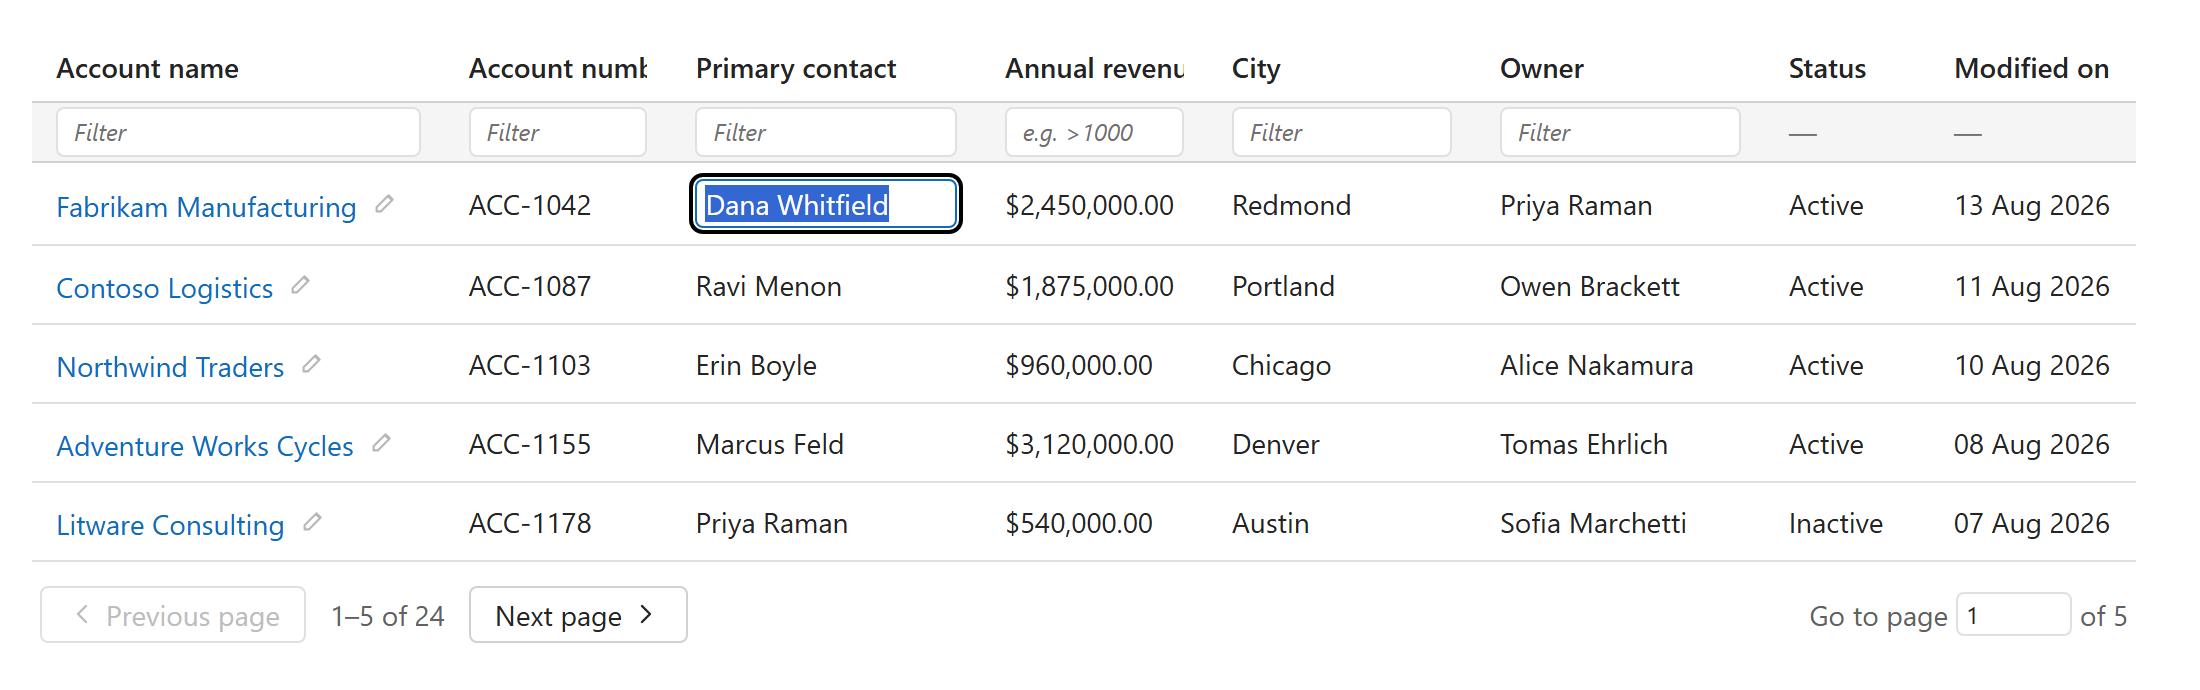
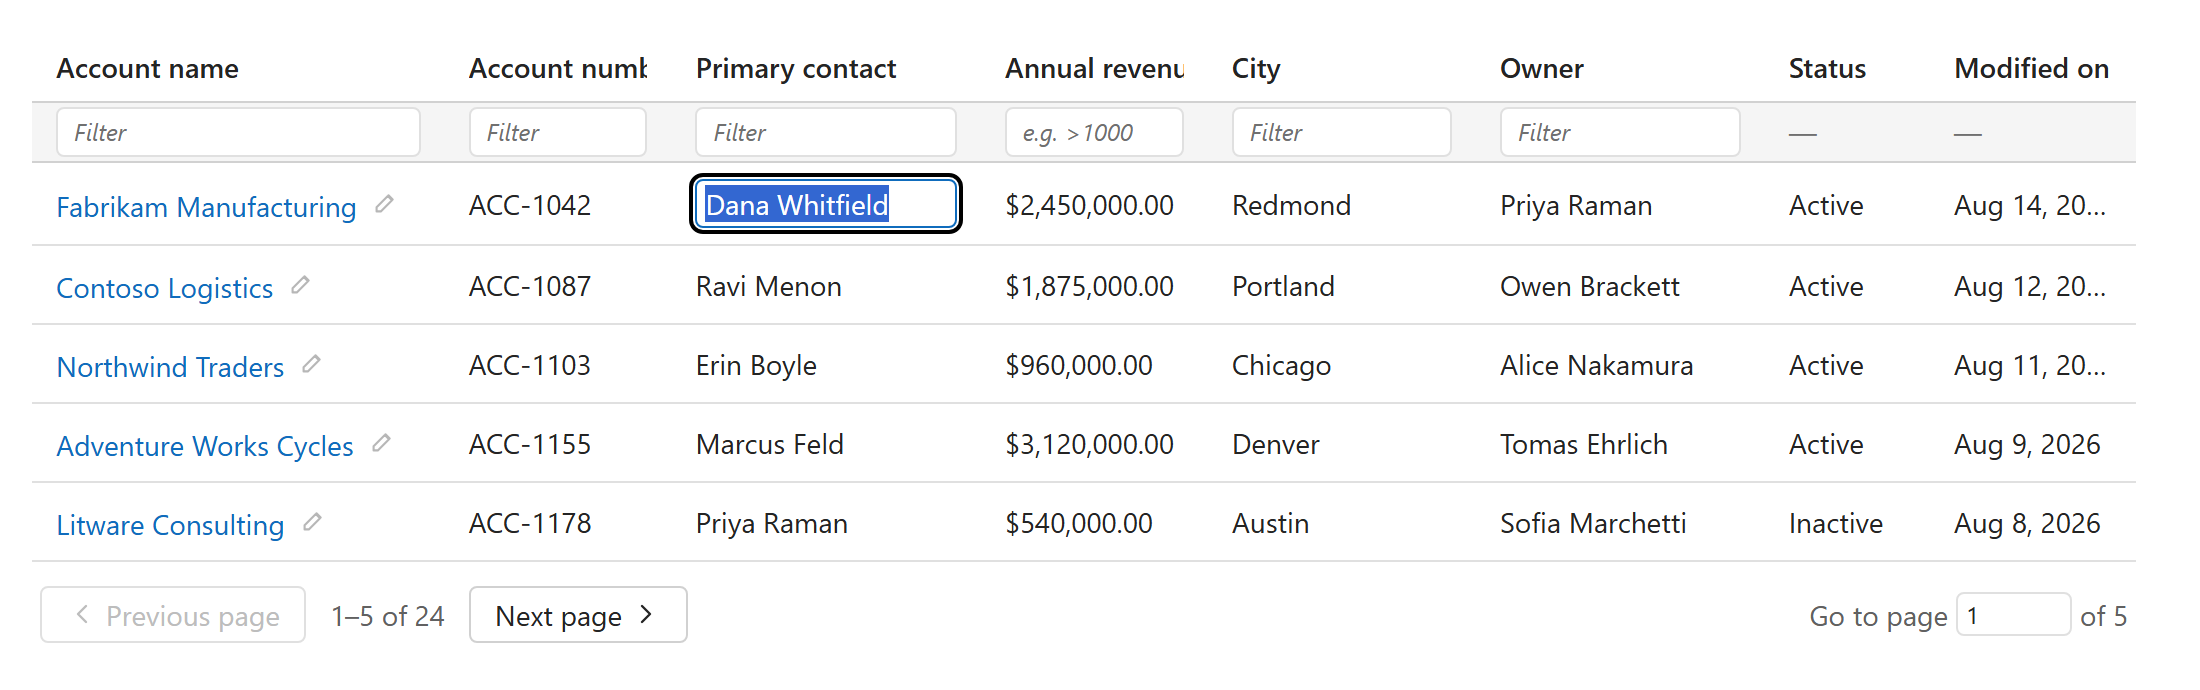
The dev rig was photographing every date a day early
`makeDisplay` parsed a date-only string with `new Date(String(value))` and then
rendered it with `toLocaleDateString`. The first of those is UTC midnight by
specification and the second reads the local zone, so west of Greenwich every
date came out one day back. This rig is what captures media/, so it did not
just mislead a developer: a fixture reading 2026-08-14 has been sitting in four
published screenshots as 13 Aug 2026.

Parsed from its parts now, which is local midnight and unambiguous. Third place
in this repository that has needed the same line — `coerceValue` and
`editorValue` in the control already carry it, and the comments there already
cite the five releases pcf-date-range-picker spent on it. The rendering also
moves to en-US to match what the hub's demo harness prints, so the screenshots
and the live demo cannot disagree about a format again.

Two smoke checks cover it, on the formatted text rather than on props: every
other assertion in that file reads what the control decided, and the control
was right the whole time. Mutation-checked — restoring the UTC parse fails the
date one with "Jan 13, 2026" and leaves the currency one passing. The comment
says outright that the check is zone-dependent: it guards the workstation that
captures the media, where the bug happened, and passes trivially on a UTC
runner.

Screenshots recaptured. They now read Aug 14, Aug 12, Aug 11, Aug 9 — the days
the fixture actually holds.

diff --git a/dev/smoke.js b/dev/smoke.js
@@ -1480,6 +1480,48 @@ editingChecks().then(report, (error) => {
 });
 
 
+/* -------------------------------------------------------------- formatting */
+
+/*
+ * **A check on the rig rather than on the control, and it has earned its
+ * place.**
+ *
+ * `makeDisplay` parsed a date-only string with `new Date(string)`, which is
+ * UTC midnight by specification, and then rendered it in the local zone. West
+ * of Greenwich every date came out a day early — and because this rig is what
+ * captures media/, it put the wrong day in four published screenshots: a
+ * fixture reading 2026-01-14 photographed as 13 Jan 2026.
+ *
+ * Nothing else here would have caught it. Every other assertion reads props,
+ * and the control's props were right the whole time; only the rig's rendering
+ * of them was wrong. So this asserts on the text a screenshot would contain.
+ *
+ * Zone-dependent, and worth saying rather than leaving to be discovered: put
+ * the UTC parse back and this fails here, on a machine at UTC-6, with
+ * "Jan 13, 2026". On a runner that is itself UTC nothing shifts and it passes
+ * either way — so it guards the workstation that captures the media, which is
+ * where the bug actually happened, and not the build.
+ */
+const formattedDate = host
+    .createHost(fixture, { format: true, inputs: INPUTS })
+    .context.parameters.records.records.a01.getFormattedValue('modifiedon');
+
+check(
+    'a date-only cell shows the day the fixture holds, not the day before',
+    formattedDate === 'Jan 14, 2026',
+    `${formattedDate} for a fixture value of 2026-01-14`,
+);
+
+const formattedMoney = host
+    .createHost(fixture, { format: true, inputs: INPUTS })
+    .context.parameters.records.records.a01.getFormattedValue('revenue');
+
+check(
+    'and a currency cell shows what a grid would print',
+    formattedMoney === '$4,200,000.00',
+    formattedMoney,
+);
+
 function report() {
     const failed = results.filter((result) => !result.ok);
 

diff --git a/dev/host.js b/dev/host.js
@@ -392,11 +392,29 @@
             }
 
             if (type.indexOf('DateAndTime') === 0) {
-                var date = new Date(String(value));
+                /*
+                 * **Parsed from its parts, not by `new Date(string)`.**
+                 *
+                 * `new Date('2026-08-14')` is UTC midnight by specification,
+                 * and `toLocaleDateString` then renders it in the local zone —
+                 * so west of Greenwich every date came out a day early. This
+                 * rig produced the published screenshots, so it put the wrong
+                 * day in the media for as long as it was here: a fixture
+                 * reading 2026-08-14 photographed as 13 Aug 2026.
+                 *
+                 * Same lesson as `coerceValue` and `editorValue` in the
+                 * control itself, now in the third place that needed it. A
+                 * date-only value is a day on a calendar, with no time to
+                 * convert and no zone to convert it from.
+                 */
+                var parts = String(value).split('-').map(Number);
+                var date = parts.length === 3 && parts.every(Number.isFinite)
+                    ? new Date(parts[0], parts[1] - 1, parts[2])
+                    : new Date(String(value));
 
                 return isNaN(date.getTime())
                     ? String(value)
-                    : date.toLocaleDateString('en-GB', { day: '2-digit', month: 'short', year: 'numeric' });
+                    : date.toLocaleDateString('en-US', { day: 'numeric', month: 'short', year: 'numeric' });
             }
 
             return String(value);
